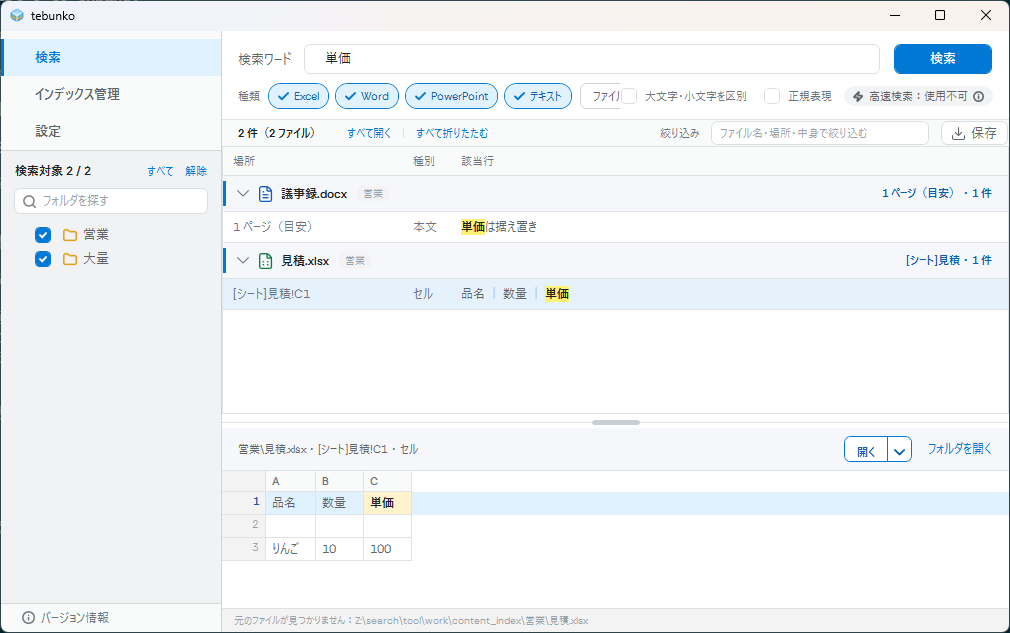
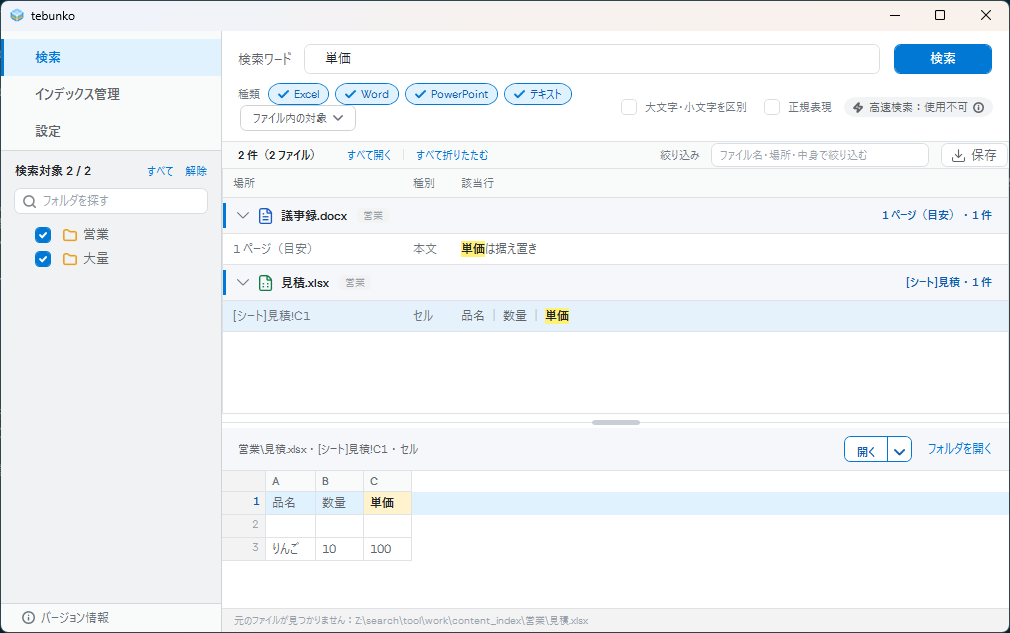
fix: 検索バーの最小幅で、［ファイル内の対象］が右のチェックに重ならないようにする
種類・ファイル内の対象の側を折り返せる並びにし、狭いときは［ファイル内の対象］を次の行に送る。最小幅の写真を撮り直した。

Changed region(s): [[0.2149, 0.1201, 1.0, 0.5403]]

diff --git a/scripts/tebunko/xaml/search/search_bar.xaml b/scripts/tebunko/xaml/search/search_bar.xaml
@@ -148,7 +148,7 @@
           </StackPanel>
         </Border>
       </StackPanel>
-      <StackPanel Orientation="Horizontal" VerticalAlignment="Center">
+      <WrapPanel Orientation="Horizontal" VerticalAlignment="Center">
         <TextBlock Text="種類" FontSize="11" Foreground="{StaticResource Ink.Muted}" VerticalAlignment="Center" Margin="0,0,8,0" />
         <StackPanel x:Name="FileKindChips" Orientation="Horizontal">
           <ToggleButton x:Name="KindChipExcel" Style="{StaticResource KindChip}" Tag="excel" Content="Excel"
@@ -185,7 +185,7 @@
             </ContextMenu>
           </Button.ContextMenu>
         </Button>
-      </StackPanel>
+      </WrapPanel>
     </DockPanel>
 
     <TextBlock x:Name="WordNotice" Style="{StaticResource WarnText}" Margin="2,6,0,0" Visibility="Collapsed" />
